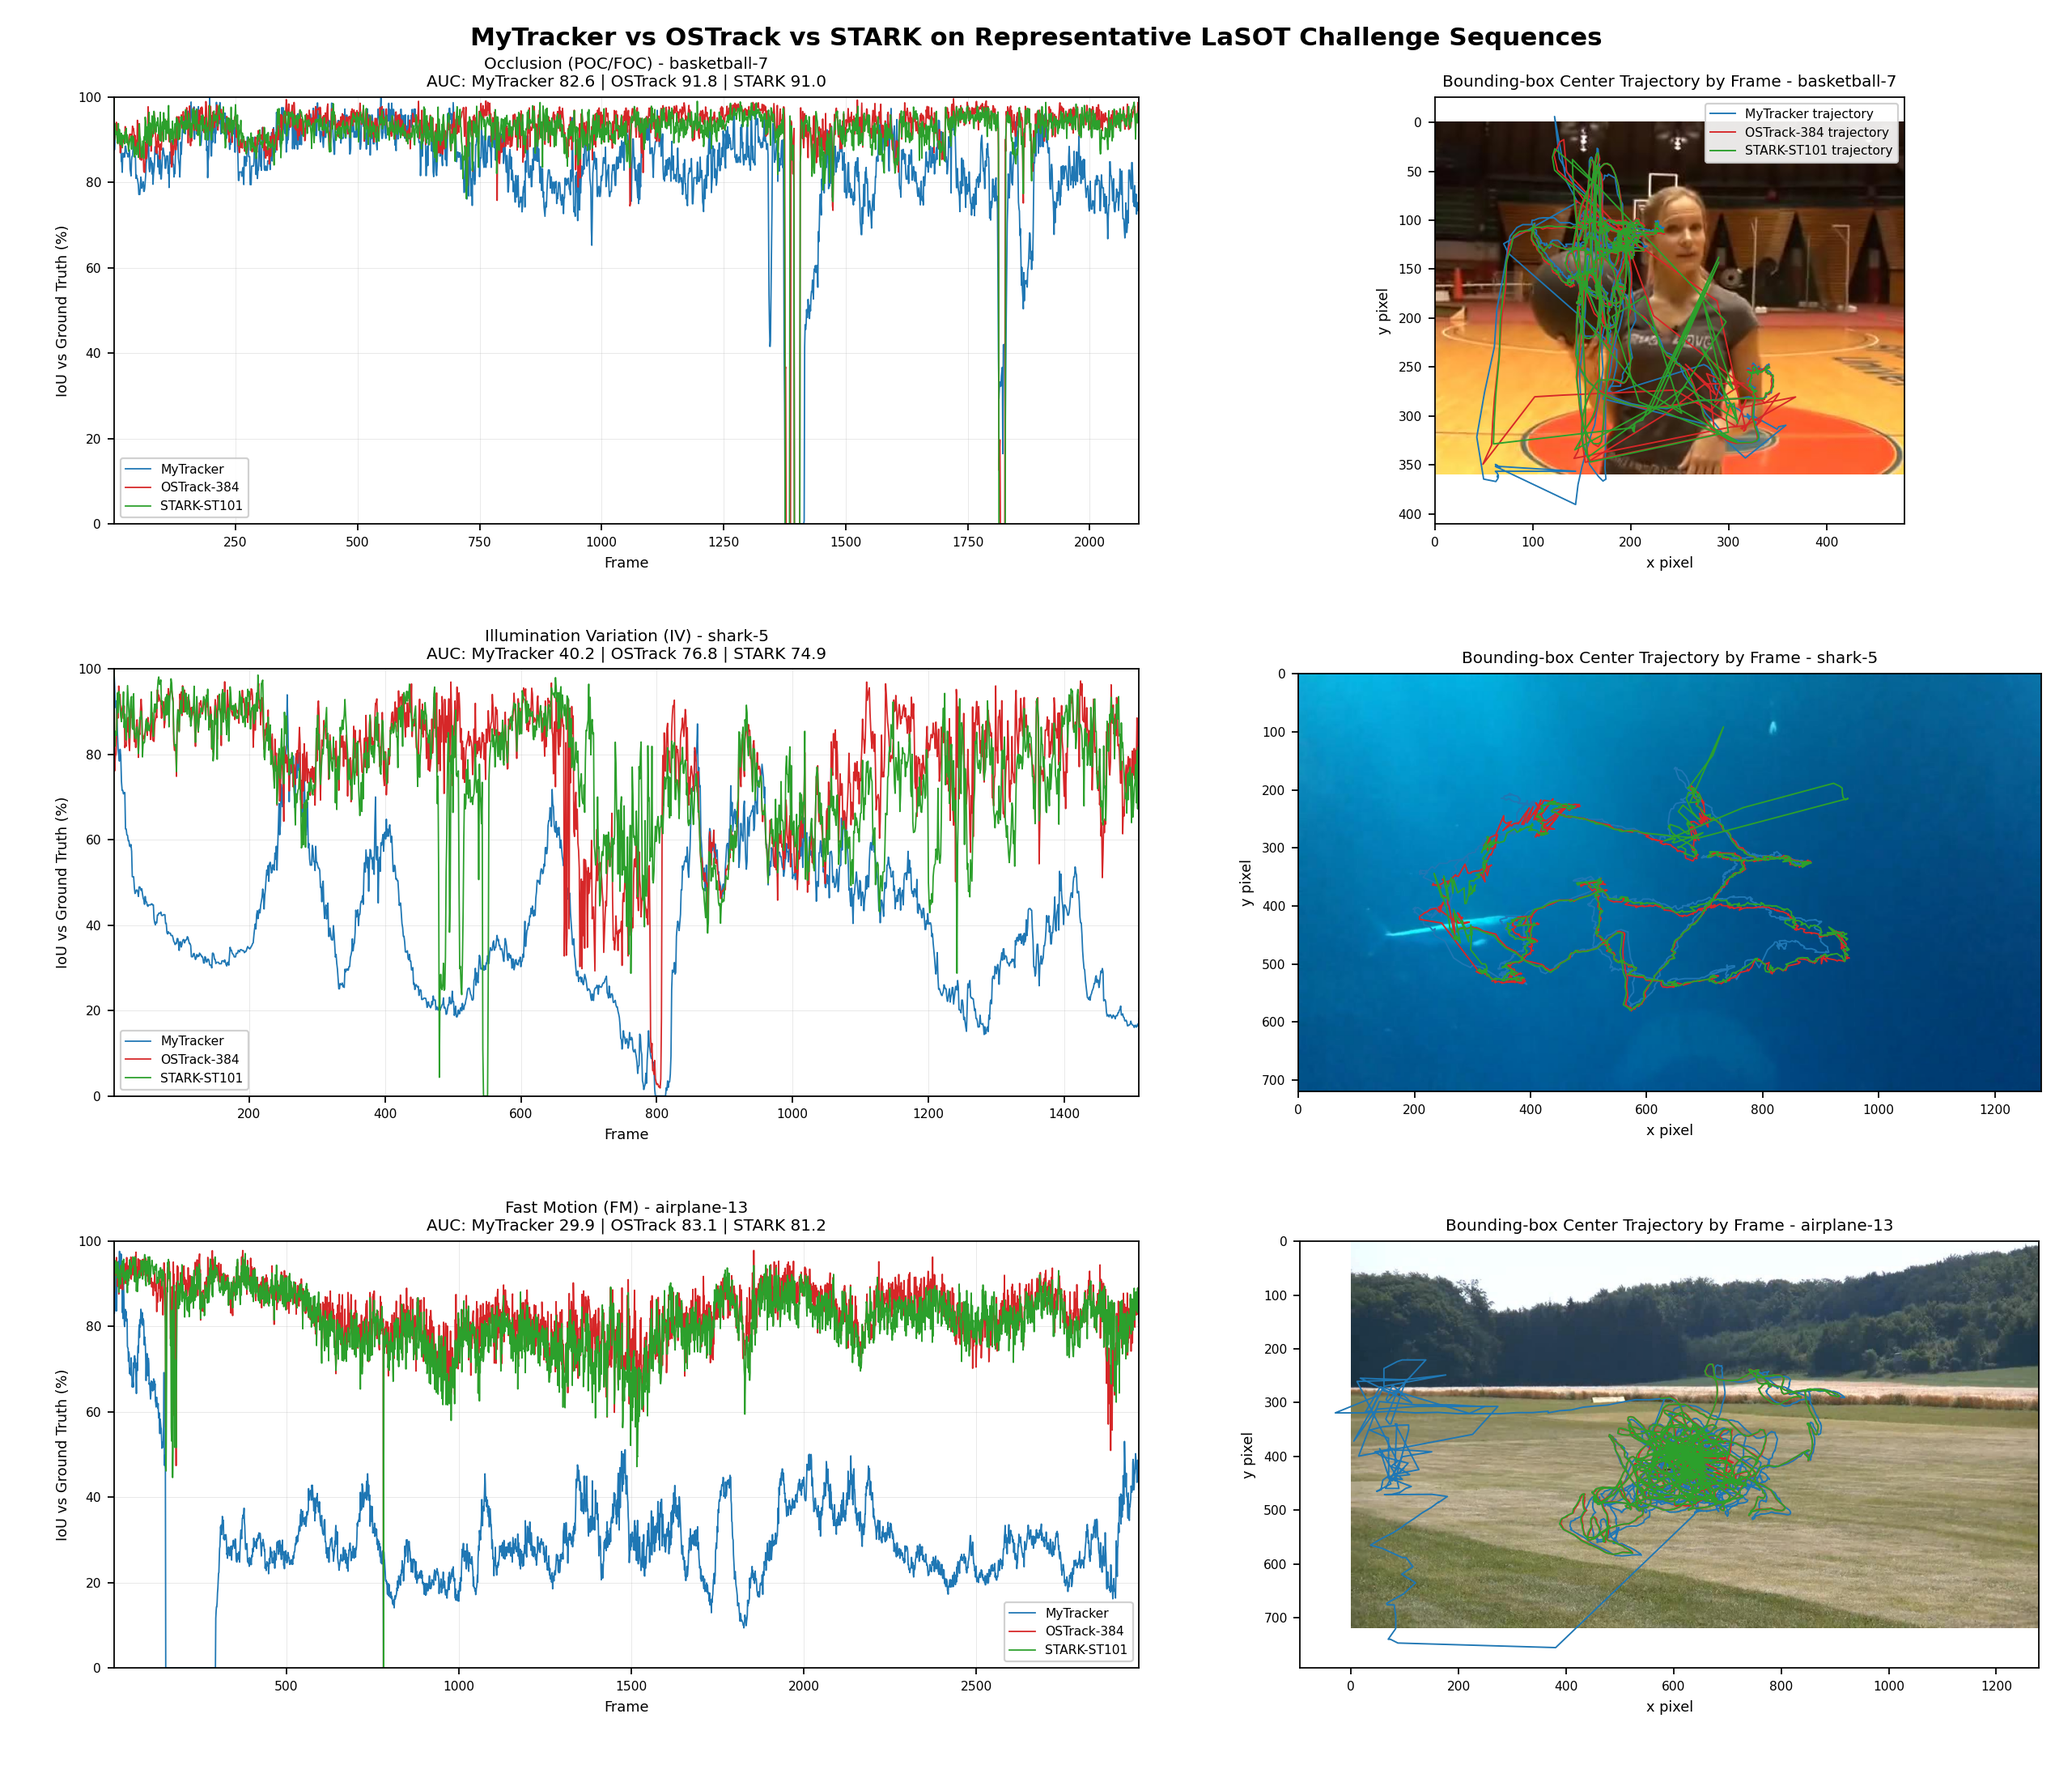
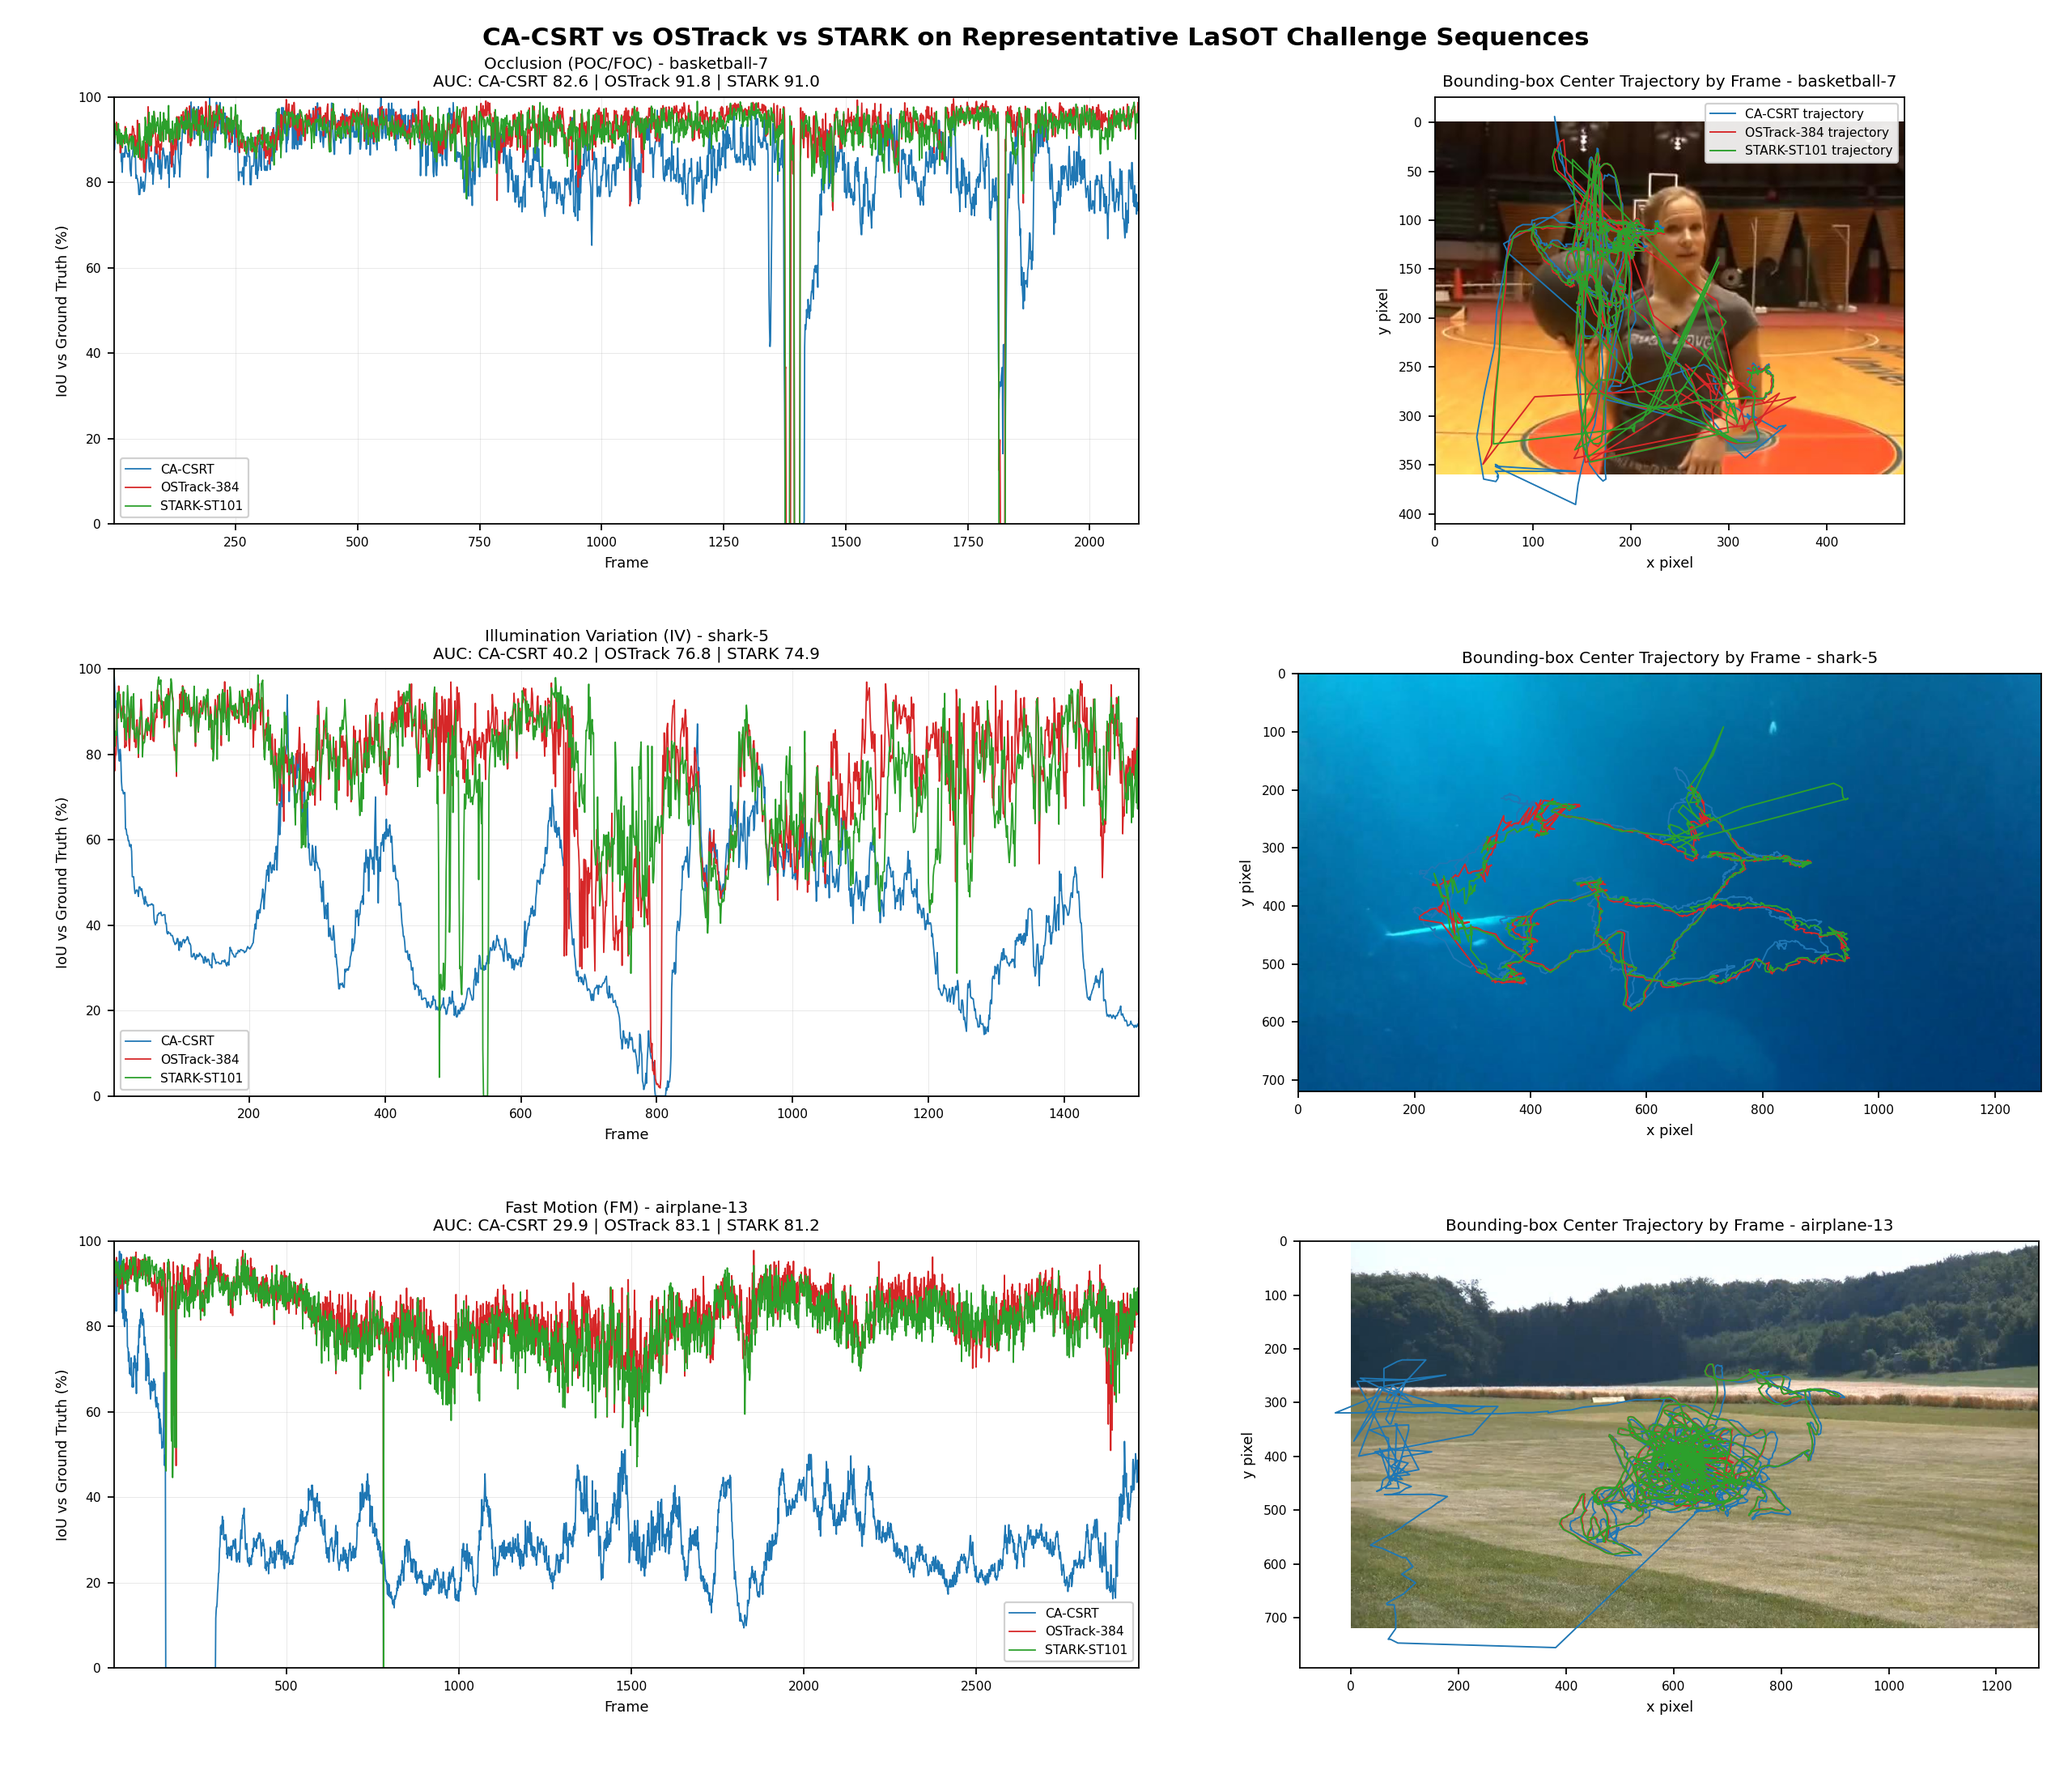
Rename MyTracker label to CA-CSRT in challenge-representative plots
Update in-image text (titles, legends, AUC/FPS annotations) across the six
challenge-representative plot scripts and regenerate all ten top-level
overall_result PNGs. File paths, dict keys, CSV columns, and output filenames
are left unchanged.

diff --git a/overall_result/plot_fps_mytracker_vs_csrt_pc.py b/overall_result/plot_fps_mytracker_vs_csrt_pc.py
@@ -48,7 +48,7 @@ class DatasetSpec:
 
 
 OTB_SPEC = DatasetSpec(
-    title="MyTracker vs Pure CSRT FPS on Representative OTB Challenge Sequences (PC)",
+    title="CA-CSRT vs Pure CSRT FPS on Representative OTB Challenge Sequences (PC)",
     out_stem="fps_challenge_representative_mytracker_vs_csrt",
     csrt_time_dir=REPO_ROOT
     / "OtherTracker"
@@ -67,7 +67,7 @@ OTB_SPEC = DatasetSpec(
 
 
 LASOT_SPEC = DatasetSpec(
-    title="MyTracker vs Pure CSRT FPS on Representative LaSOT Challenge Sequences (PC)",
+    title="CA-CSRT vs Pure CSRT FPS on Representative LaSOT Challenge Sequences (PC)",
     out_stem="lasot_fps_challenge_representative_mytracker_vs_csrt",
     csrt_time_dir=REPO_ROOT
     / "OtherTracker"
@@ -155,10 +155,10 @@ def render_dataset(spec: DatasetSpec) -> None:
         ax_line = axes[row_idx, 0]
         frame_axis_my = np.arange(2, len(my_fps) + 1)
         frame_axis_csrt = np.arange(2, len(csrt_fps) + 1)
-        ax_line.plot(frame_axis_my, my_fps[1:], color=MY_COLOR, linewidth=0.7, label="MyTracker")
+        ax_line.plot(frame_axis_my, my_fps[1:], color=MY_COLOR, linewidth=0.7, label="CA-CSRT")
         ax_line.plot(frame_axis_csrt, csrt_fps[1:], color=CSRT_COLOR, linewidth=0.7, label="Pure CSRT")
         ax_line.axhline(my_mean, color=MY_COLOR, linestyle="--", linewidth=1.0, alpha=0.85,
-                        label=f"MyTracker mean ({my_mean:.1f})")
+                        label=f"CA-CSRT mean ({my_mean:.1f})")
         ax_line.axhline(csrt_mean, color=CSRT_COLOR, linestyle="--", linewidth=1.0, alpha=0.85,
                         label=f"Pure CSRT mean ({csrt_mean:.1f})")
         ax_line.set_xlim(2, max(len(my_fps), len(csrt_fps)))
@@ -169,14 +169,14 @@ def render_dataset(spec: DatasetSpec) -> None:
         ax_line.tick_params(labelsize=7)
         ax_line.set_title(
             f"{seq_spec['title']} - {sequence}\n"
-            f"Mean FPS: MyTracker {my_mean:.1f} | CSRT {csrt_mean:.1f} | Delta {delta:+.1f}",
+            f"Mean FPS: CA-CSRT {my_mean:.1f} | CSRT {csrt_mean:.1f} | Delta {delta:+.1f}",
             fontsize=9,
             pad=6,
         )
         ax_line.legend(loc="best", fontsize=7, framealpha=0.9)
 
         ax_bar = axes[row_idx, 1]
-        labels = ["MyTracker", "Pure CSRT"]
+        labels = ["CA-CSRT", "Pure CSRT"]
         values = [my_mean, csrt_mean]
         colors = [MY_COLOR, CSRT_COLOR]
         bars = ax_bar.barh(labels, values, color=colors, edgecolor="black", linewidth=0.5)
@@ -198,7 +198,7 @@ def render_dataset(spec: DatasetSpec) -> None:
         dataset_label = "OTB100" if "OTB" in spec.title else "LaSOT head-tail-40"
         ax_bar.set_title(
             f"Per-sequence Mean FPS - {sequence}\n"
-            f"(Dataset {dataset_label} avg: MyTracker {spec.my_dataset_fps:.2f}, "
+            f"(Dataset {dataset_label} avg: CA-CSRT {spec.my_dataset_fps:.2f}, "
             f"CSRT {spec.csrt_dataset_fps:.2f})",
             fontsize=9,
             pad=6,

diff --git a/overall_result/plot_mytracker_vs_csrt_pc.py b/overall_result/plot_mytracker_vs_csrt_pc.py
@@ -39,7 +39,7 @@ class DatasetSpec:
 
 
 OTB_SPEC = DatasetSpec(
-    title="MyTracker vs Pure CSRT on Representative OTB Challenge Sequences",
+    title="CA-CSRT vs Pure CSRT on Representative OTB Challenge Sequences",
     out_stem="challenge_representative_mytracker_vs_csrt",
     dataset_type="otb",
     my_result_dir=REPO_ROOT
@@ -79,7 +79,7 @@ OTB_SPEC = DatasetSpec(
 
 
 LASOT_SPEC = DatasetSpec(
-    title="MyTracker vs Pure CSRT on Representative LaSOT Challenge Sequences",
+    title="CA-CSRT vs Pure CSRT on Representative LaSOT Challenge Sequences",
     out_stem="lasot_challenge_representative_mytracker_vs_csrt",
     dataset_type="lasot",
     my_result_dir=REPO_ROOT
@@ -226,7 +226,7 @@ def render_dataset(spec: DatasetSpec) -> None:
         delta = my_auc - csrt_auc
 
         ax_iou = axes[row_idx, 0]
-        ax_iou.plot(np.arange(1, len(my_iou) + 1), my_iou, color="#1f77b4", linewidth=0.9, label="MyTracker")
+        ax_iou.plot(np.arange(1, len(my_iou) + 1), my_iou, color="#1f77b4", linewidth=0.9, label="CA-CSRT")
         ax_iou.plot(np.arange(1, len(csrt_iou) + 1), csrt_iou, color="#ff7f0e", linewidth=0.9, label="Pure CSRT")
         ax_iou.set_xlim(1, max(len(my_iou), len(csrt_iou)))
         ax_iou.set_ylim(0, 100)
@@ -236,7 +236,7 @@ def render_dataset(spec: DatasetSpec) -> None:
         ax_iou.tick_params(labelsize=7)
         ax_iou.set_title(
             f"{seq_spec['title']} - {sequence}\n"
-            f"AUC: MyTracker {my_auc:.1f} | CSRT {csrt_auc:.1f} | Delta {delta:+.1f}",
+            f"AUC: CA-CSRT {my_auc:.1f} | CSRT {csrt_auc:.1f} | Delta {delta:+.1f}",
             fontsize=9,
             pad=6,
         )
@@ -245,7 +245,7 @@ def render_dataset(spec: DatasetSpec) -> None:
         ax_traj = axes[row_idx, 1]
         ax_traj.imshow(Image.open(image_path))
         for bbox, color, label in (
-            (my_bbox, "#1f77b4", "MyTracker trajectory"),
+            (my_bbox, "#1f77b4", "CA-CSRT trajectory"),
             (csrt_bbox, "#ff7f0e", "Pure CSRT trajectory"),
         ):
             center_x = bbox[:, 0] + bbox[:, 2] / 2.0

diff --git a/overall_result/plot_otb100_fps_3trackers.py b/overall_result/plot_otb100_fps_3trackers.py
@@ -38,8 +38,8 @@ class TrackerSpec:
 TRACKERS = [
     TrackerSpec(
         key="myeco",
-        label="MyTracker",
-        short_label="MyTracker",
+        label="CA-CSRT",
+        short_label="CA-CSRT",
         color="#1f77b4",
         time_dir=REPO_ROOT
         / "MyECOTracker"
@@ -127,7 +127,7 @@ def plot() -> None:
         gridspec_kw={"width_ratios": [1.38, 1.0], "hspace": 0.34, "wspace": 0.18},
     )
     fig.suptitle(
-        "MyTracker vs OSTrack vs STARK FPS on Representative OTB100 Challenge Sequences (PC)",
+        "CA-CSRT vs OSTrack vs STARK FPS on Representative OTB100 Challenge Sequences (PC)",
         fontsize=14,
         fontweight="bold",
         y=0.985,

diff --git a/overall_result/plot_lasot_fps_3trackers.py b/overall_result/plot_lasot_fps_3trackers.py
@@ -38,8 +38,8 @@ class TrackerSpec:
 TRACKERS = [
     TrackerSpec(
         key="myeco",
-        label="MyTracker",
-        short_label="MyTracker",
+        label="CA-CSRT",
+        short_label="CA-CSRT",
         color="#1f77b4",
         time_dir=REPO_ROOT
         / "MyECOTracker"
@@ -129,7 +129,7 @@ def plot() -> None:
         gridspec_kw={"width_ratios": [1.38, 1.0], "hspace": 0.34, "wspace": 0.18},
     )
     fig.suptitle(
-        "MyTracker vs OSTrack vs STARK FPS on Representative LaSOT Challenge Sequences (PC)",
+        "CA-CSRT vs OSTrack vs STARK FPS on Representative LaSOT Challenge Sequences (PC)",
         fontsize=14,
         fontweight="bold",
         y=0.985,

diff --git a/overall_result/plot_lasot_challenge_representative_3trackers.py b/overall_result/plot_lasot_challenge_representative_3trackers.py
@@ -39,8 +39,8 @@ class TrackerSpec:
 TRACKERS = [
     TrackerSpec(
         key="myeco",
-        label="MyTracker",
-        short_label="MyTracker",
+        label="CA-CSRT",
+        short_label="CA-CSRT",
         color="#1f77b4",
         result_dir=REPO_ROOT
         / "overall_result"
@@ -177,7 +177,7 @@ def plot() -> None:
         gridspec_kw={"width_ratios": [1.38, 1.0], "hspace": 0.34, "wspace": 0.18},
     )
     fig.suptitle(
-        "MyTracker vs OSTrack vs STARK on Representative LaSOT Challenge Sequences",
+        "CA-CSRT vs OSTrack vs STARK on Representative LaSOT Challenge Sequences",
         fontsize=14,
         fontweight="bold",
         y=0.985,

diff --git a/overall_result/plot_otb100_challenge_representative_3trackers.py b/overall_result/plot_otb100_challenge_representative_3trackers.py
@@ -38,8 +38,8 @@ class TrackerSpec:
 TRACKERS = [
     TrackerSpec(
         key="myeco",
-        label="MyTracker",
-        short_label="MyTracker",
+        label="CA-CSRT",
+        short_label="CA-CSRT",
         color="#1f77b4",
         result_dir=REPO_ROOT
         / "MyECOTracker"
@@ -176,7 +176,7 @@ def plot() -> None:
         gridspec_kw={"width_ratios": [1.38, 1.0], "hspace": 0.34, "wspace": 0.18},
     )
     fig.suptitle(
-        "MyTracker vs OSTrack vs STARK on Representative OTB100 Challenge Sequences",
+        "CA-CSRT vs OSTrack vs STARK on Representative OTB100 Challenge Sequences",
         fontsize=14,
         fontweight="bold",
         y=0.985,
